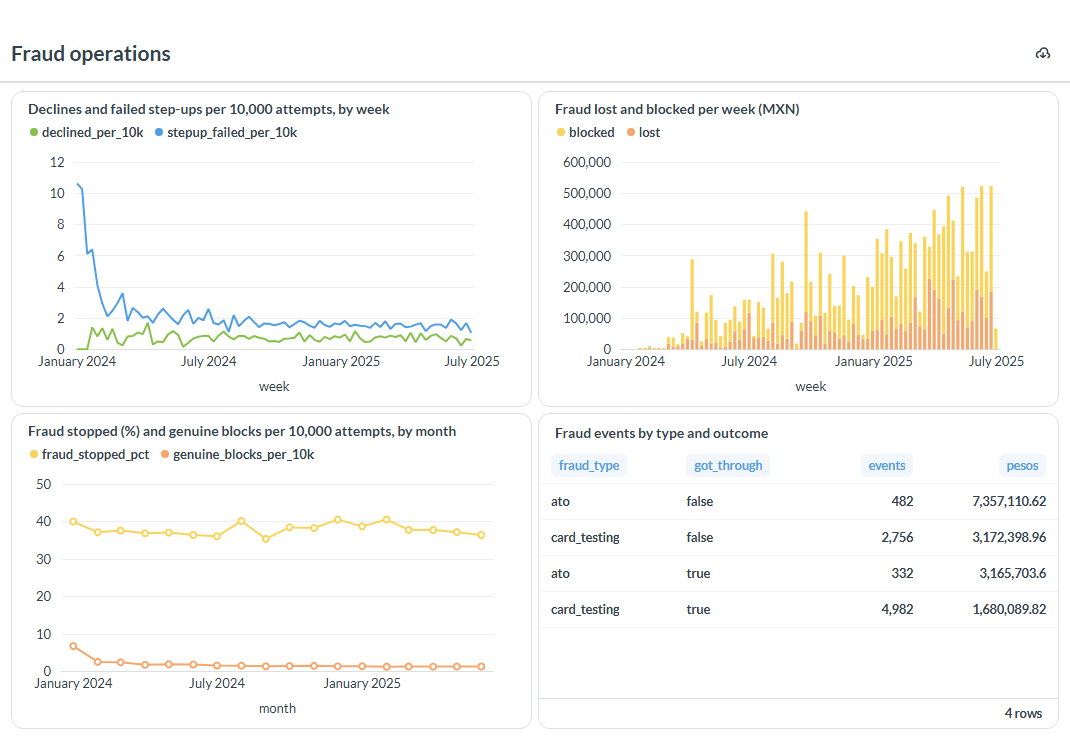
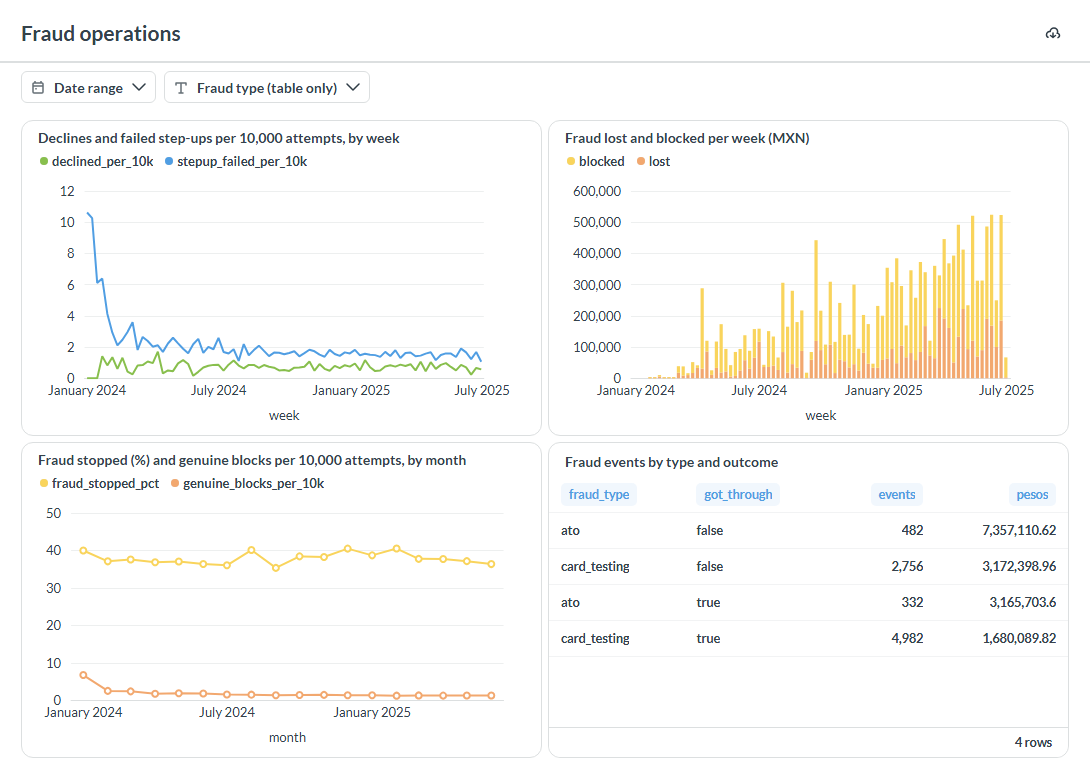
Fraud operations dashboard: date-range and fraud-type filters (Metabase field filters)

diff --git a/docs/databricks-metabase.md b/docs/databricks-metabase.md
@@ -51,7 +51,9 @@ the full one. On Free Edition's single 2X-Small serverless warehouse the three l
 
 ## The dashboards
 
-Each chart is a saved SQL question in [`dashboards/`](../dashboards), one file per chart.
+Each chart is a saved SQL question in [`dashboards/`](../dashboards), one file per chart. The Fraud operations dashboard
+has two filters, a date range and a fraud type, built as Metabase field filters: a `[[where {{day}}]]` line in the SQL
+that a dashboard control fills in, so someone who does not write SQL can ask for one quarter or one fraud type.
 
 **Fraud operations** ([queries](../dashboards/fraud-operations))
 
@@ -88,7 +90,8 @@ reported a median of 29 days after the event and account takeover after 2, which
    `uv run fincrime warehouse load` (create the catalog `fincrime`, upload, load, rebuild the
    marts), then `uv run fincrime warehouse reconcile`.
 3. Start Metabase, add a Databricks database with the workspace host, the SQL warehouse HTTP path
-   and the token, set the catalog to `fincrime`, and paste the queries from `dashboards/`.
+   and the token, set the catalog to `fincrime`, and paste the queries from `dashboards/` (in the Fraud operations queries, the `[[...]]` lines are Metabase
+   filters: keep them in Metabase, delete them to run the query in the Databricks SQL editor).
 
 ## Limits
 
